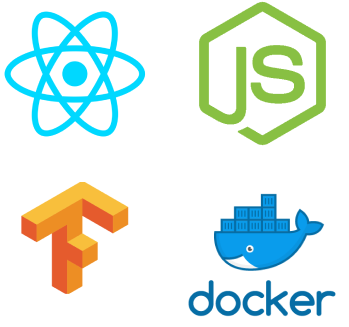
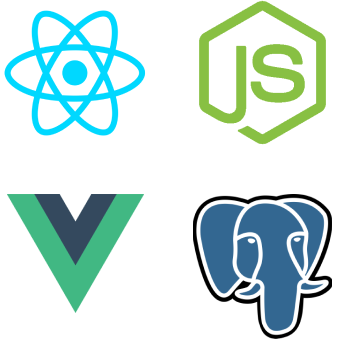
July/2020 update

diff --git a/src/pages/Home/styles.js b/src/pages/Home/styles.js
@@ -47,7 +47,7 @@ export const Intro = styled.div`
 `;
 
 export const BoxHolder = styled.div`
-  margin: 200px 0px;
+  margin: 220px 0px;
   align-self: stretch;
   display: flex;
   flex-direction: row;
@@ -192,7 +192,7 @@ export const AbsoluteBox = styled.div`
   background-color: #533c8d;
   padding: 10px 20px;
   width: 300px;
-  bottom: -220px;
+  bottom: -230px;
   position: absolute;
   transform: ${(props) =>
     props.hidden ? 'translateX(200%)' : 'translateX(0)'};

diff --git a/src/pages/Home/index.js b/src/pages/Home/index.js
@@ -50,6 +50,7 @@ export default function Home() {
                     <li>React</li>
                     <li>React Native</li>
                     <li>Node JS</li>
+                    <li>Vue JS</li>
                     <li>Javascript</li>
                     <li>Typescript</li>
                     <li>HTML</li>

diff --git a/src/components/Navigator/index.js b/src/components/Navigator/index.js
@@ -20,7 +20,7 @@ export default function Navigator() {
     } else {
       setHome(false);
     }
-  }, [history]);
+  }, []);
 
   const handlePageChange = (id) => {
     if (history.location.pathname === '/' && id === 1) {
